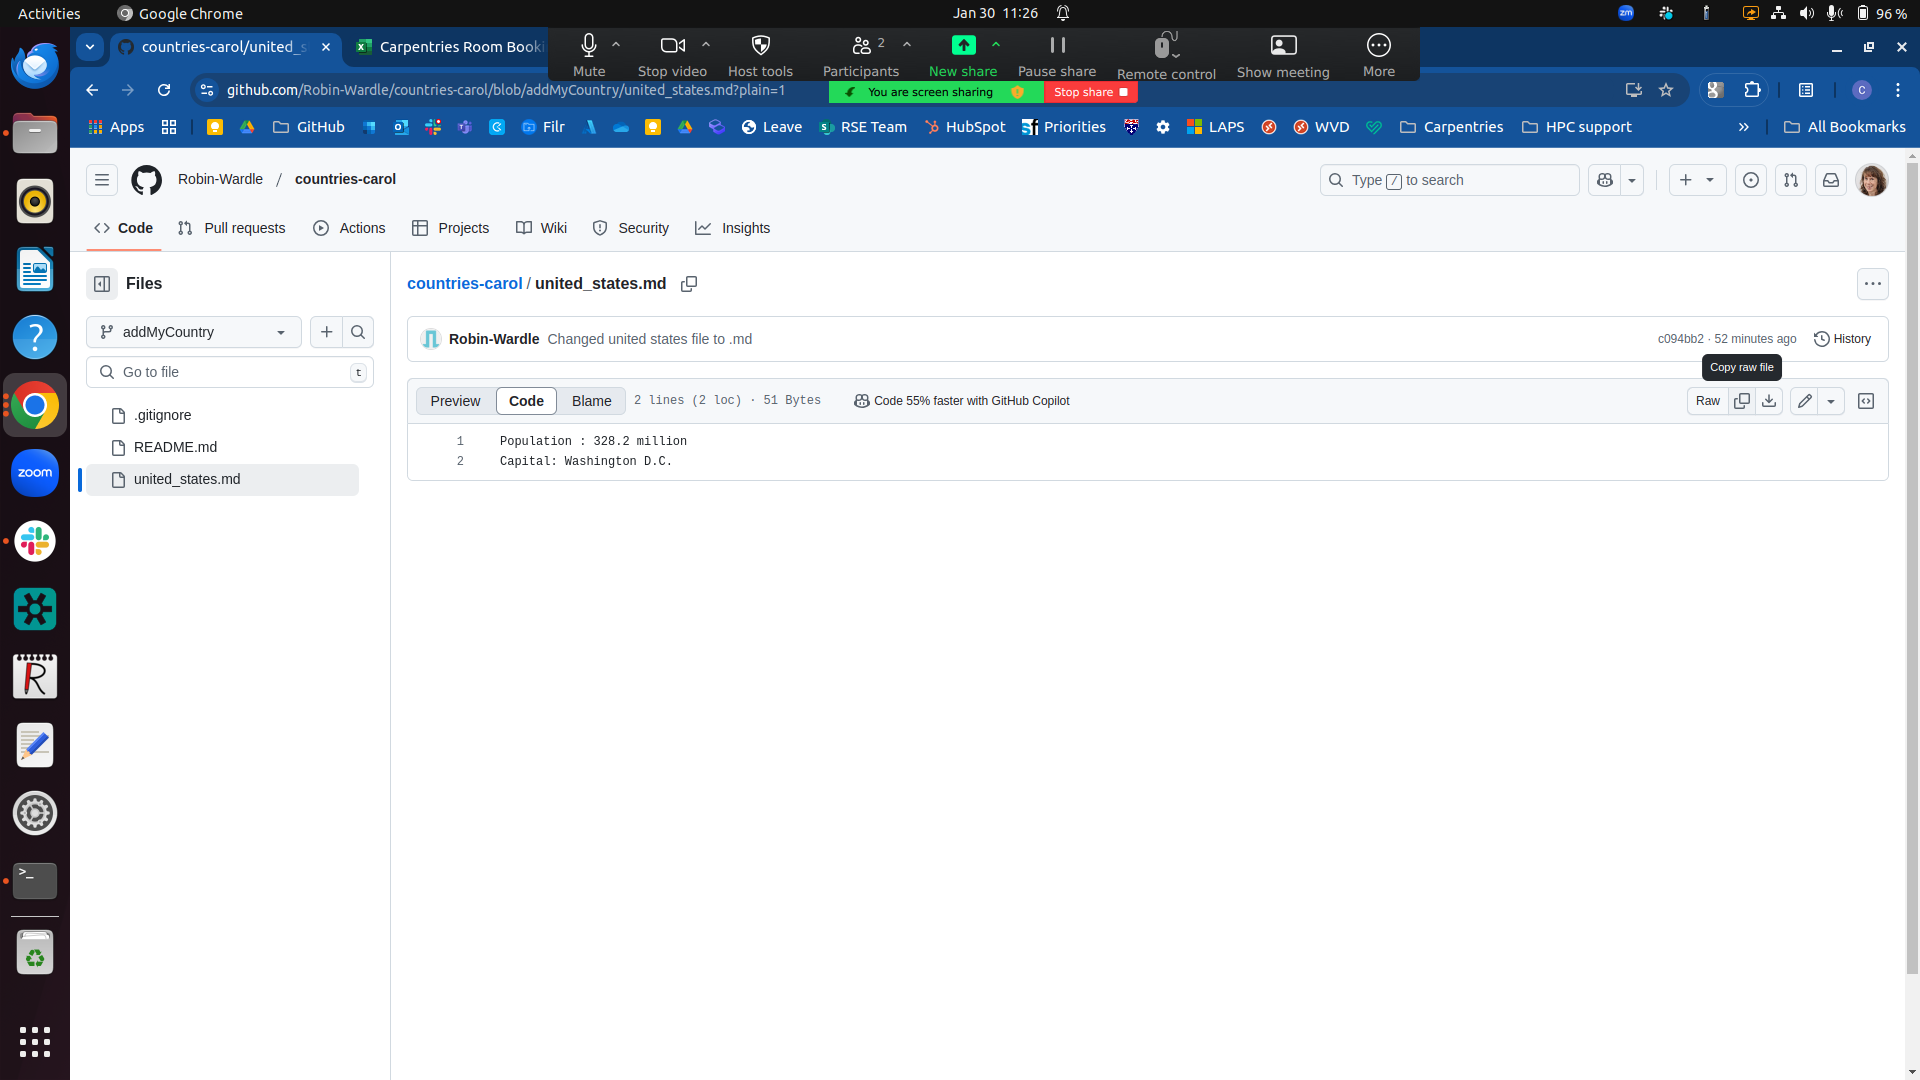
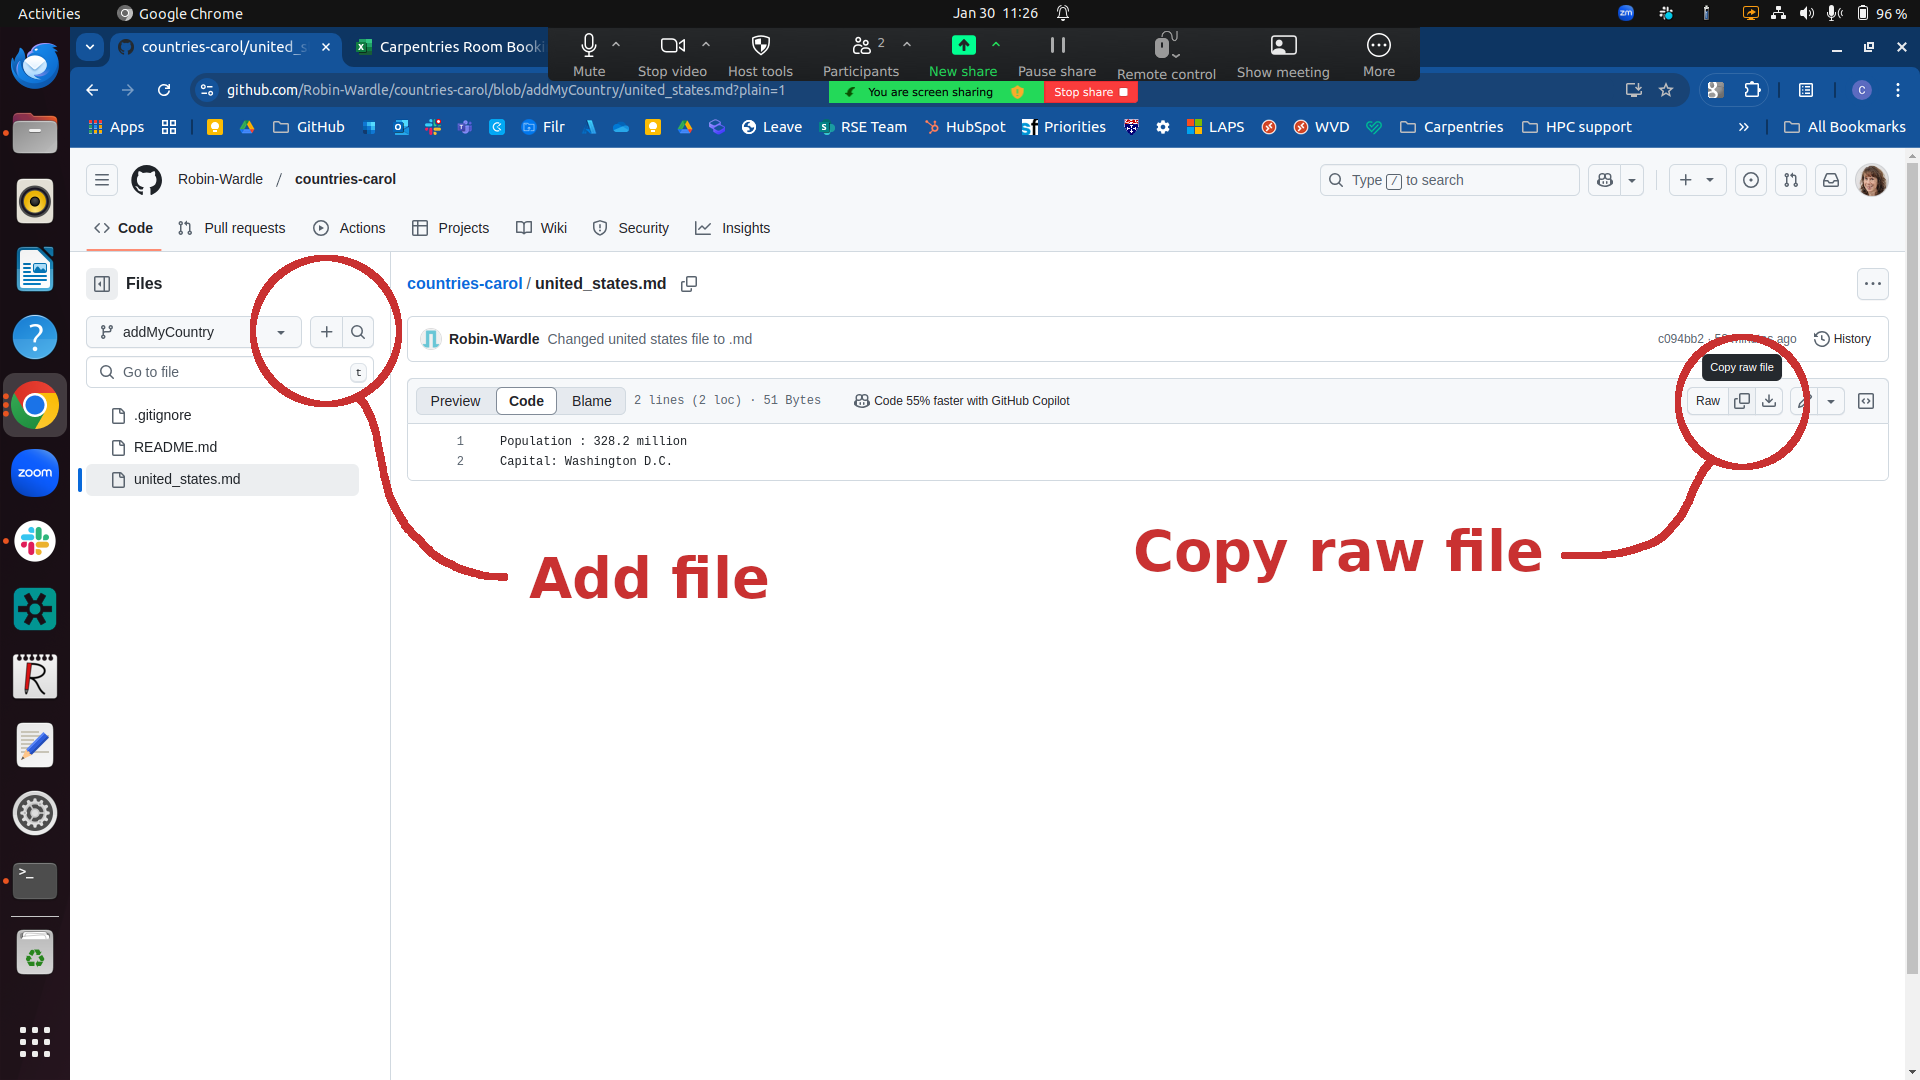
Updated episode 10

diff --git a/_episodes/10-pull-requests.md b/_episodes/10-pull-requests.md
@@ -6,10 +6,11 @@ questions:
 - "What are pull requests for?"
 - "How can I make a pull request?"
 objectives:
-- "Define the terms clone, origin, remote, upstream"
 - "Understand how to make a pull request and what they are useful for"
+- "Review the terms clone, origin, remote, upstream"
+- "Review creating, working with and deleting branches"
 keypoints:
-- "Pull requests suggest changes to repos where you don't have privileges"
+- "Pull requests allow developers to propose changes to a repository where access to the main branch is restricted"
 ---
 
 
@@ -52,11 +53,11 @@ Within the `countries` repository, once you have accepted your collaboration inv
 ![GitHub Create A Branch](../fig/github-create-a-branch.png)
 
 To make our new country file we will copy the contents of file `united_states.md` and paste the contents into a new file with the name of our chosen country. _Hint: You may need to do some internet searching to fill in the information._   
-* Click the name of the file you want to copy. 
-* Click the "copy" icon (**Copy raw file**) next to **Raw** at the top right of the view /edit panel. 
-* In the file navigator on the left, click the + (Add File) button at the top
-  * Type your country name into the box **Name your file**
-  * Click then paste into the edit panel
+* Click the name of the file you want to copy.
+* Click the "copy" icon (**Copy raw file**) next to **Raw** at the top right of the view /edit panel. You'll see a small **Copied!** pop-up.
+* In the file navigator on the left, click the **+** (Add File) button at the top
+  * Type your country name into the box **Name your file...**.
+  * Click in the edit panel then paste the raw text you copied from the `united_states.md` file.
   * Change the text to reflect the details about your chosen country.
 
 ![GitHub Copy Raw File](../fig/github-copy-raw-file.png)
@@ -69,7 +70,16 @@ To make our new country file we will copy the contents of file `united_states.md
 
 Click **Commit changes** at top right. In the pop up box, enter an extended description and click the **Commit Changes** button.
 
-In many cases when working with GitHub repositories we may not have permission to push changes directly to the upstream or authoritative repositoryor we might like our changes to be reviewed regardless of permissions, so we'll create a `pull request`. A `pull request` is a **request** for a member of the upstream repository to **pull** our changes into the upstream repository from a branch. This process allows the repository administrators to request further changes or improvements and make comments on the changes before accepting them.
+> ## Correct branch?
+>
+> Did you remember to select the branch you just created as the
+> destination for your commit? If you didn't, you can either repeat the
+> process having selected the correct branch, or you can choose the
+> **Commit to new branch** option in the commit dialog box. You'll need to
+> remember to delete both branches later in this lesson.
+{: .callout}
+
+In many cases when working with GitHub repositories we may not have permission to push changes directly to the upstream or authoritative repository or we might like our changes to be reviewed regardless of permissions, so we'll create a `pull request`. A `pull request` is a **request** for a member of the upstream repository to **pull** our changes into the upstream repository from a branch. This process allows the repository administrators to request further changes or improvements and make comments on the changes before accepting them.
 
 Click your repository name at the top of the page to return to the top level view. Github already suspects that we are going to want to make a pull request from our branch, so we can click the **Compare & pull request** button to start a new pull request.
 
